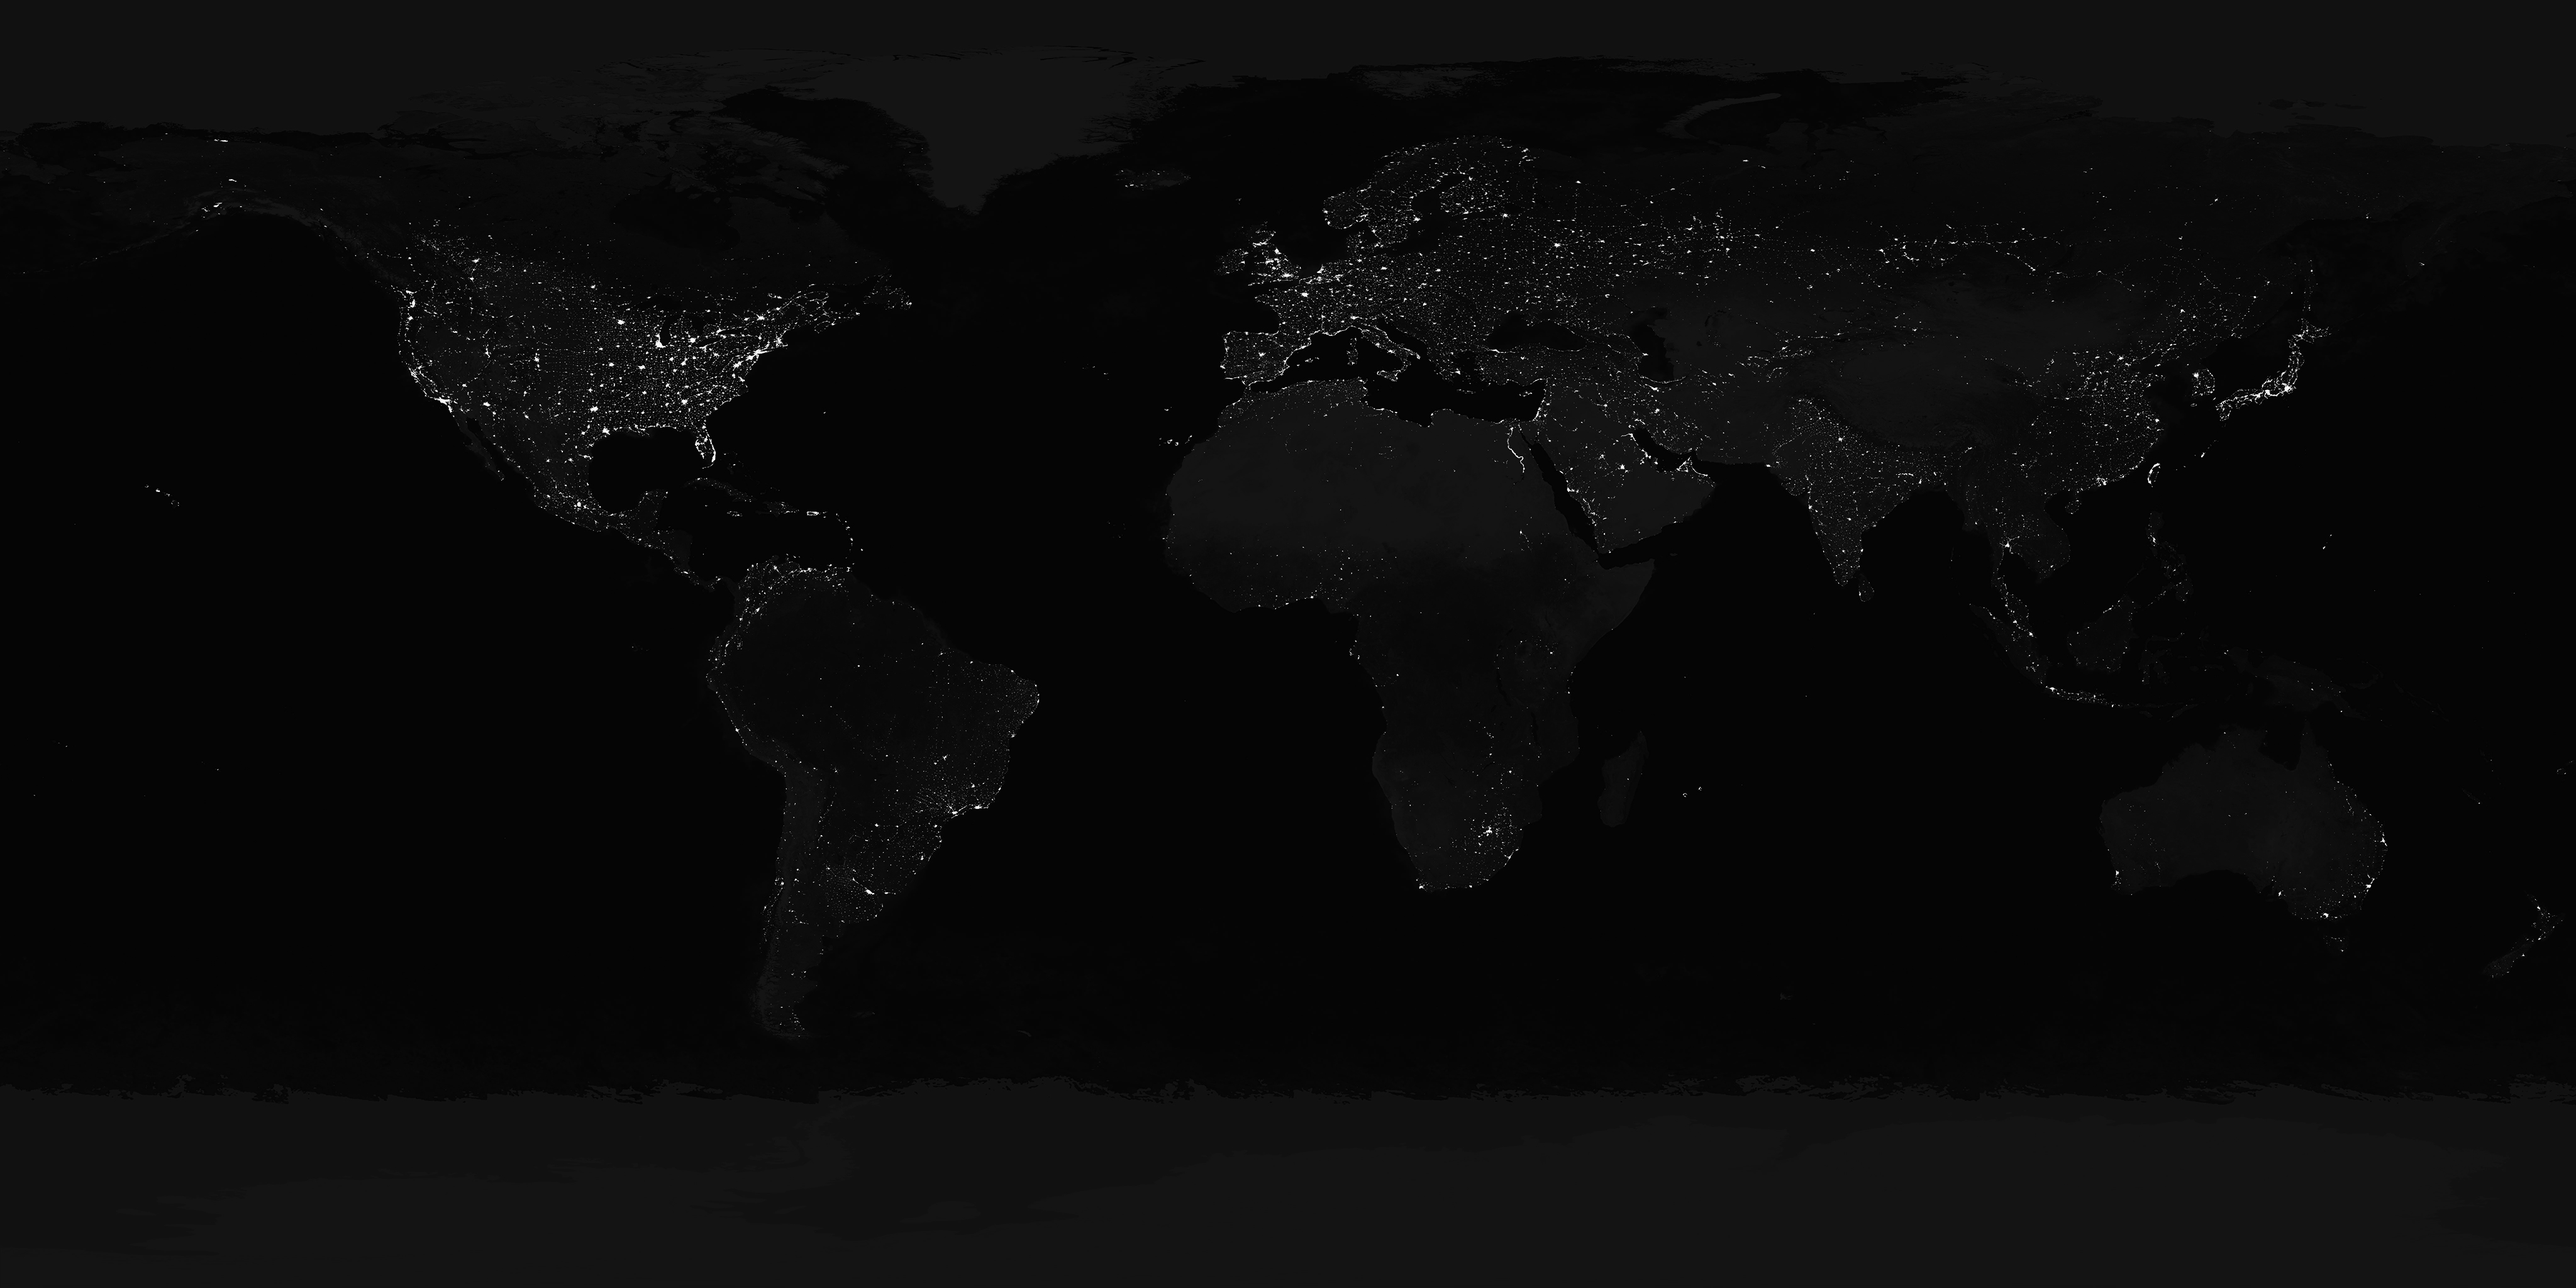
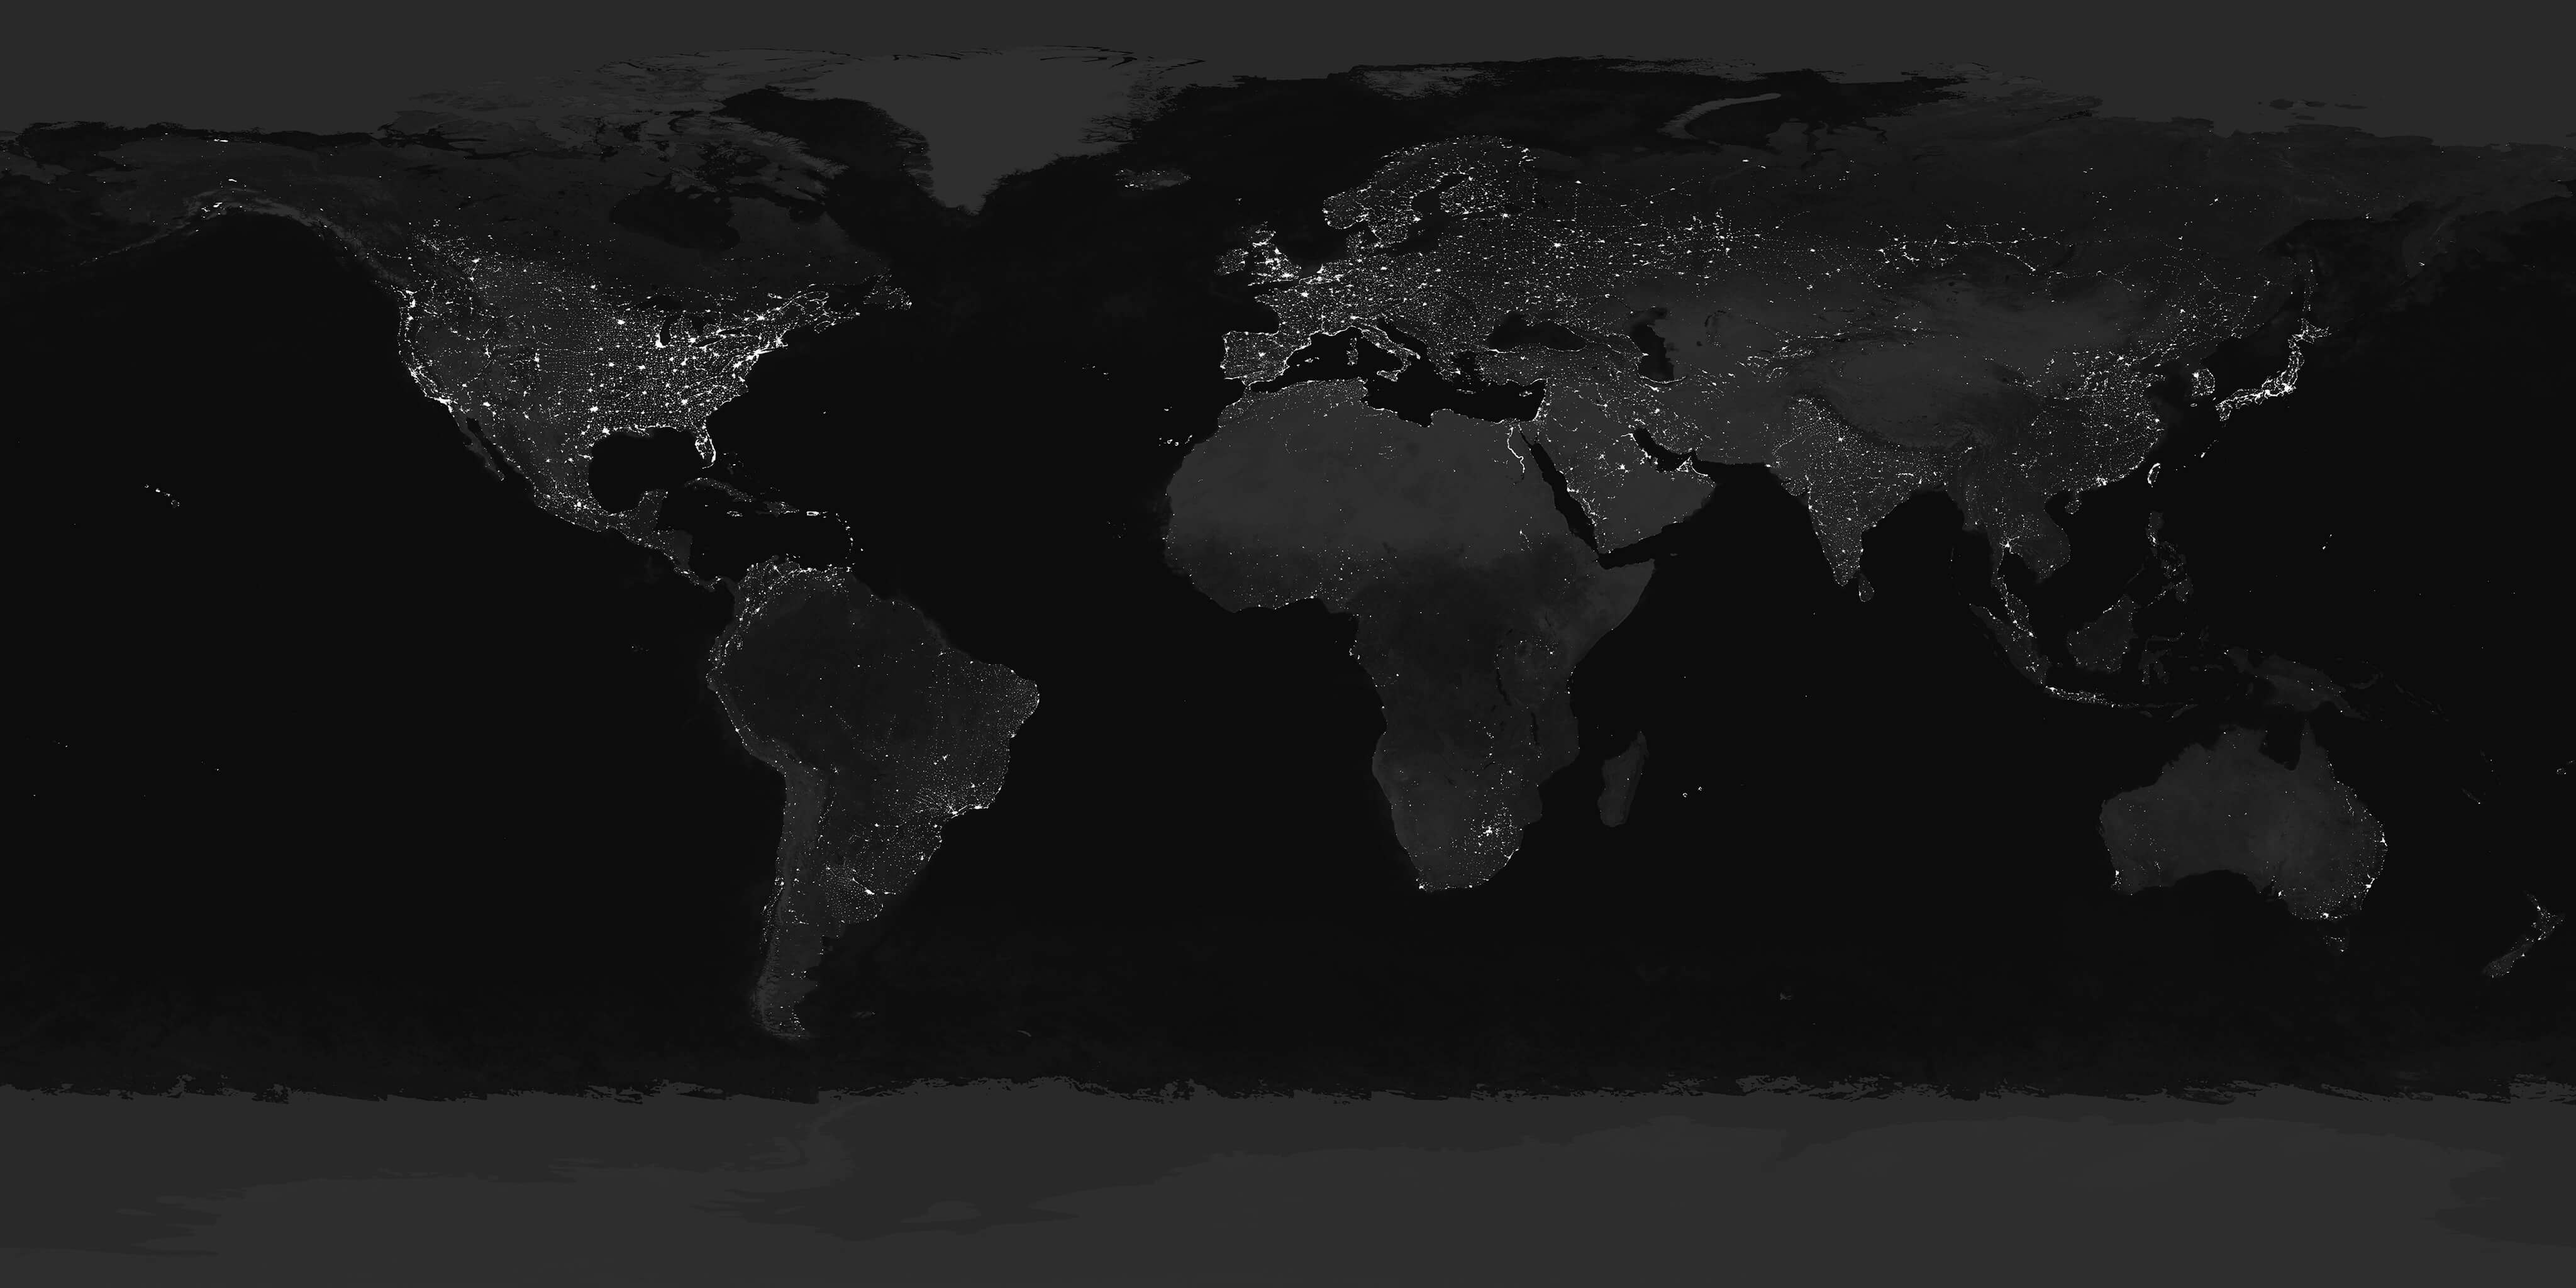
everything is phong

diff --git a/source/js/three/MarkerAnimationSystem.js b/source/js/three/MarkerAnimationSystem.js
@@ -11,7 +11,7 @@ function MarkerAnimationSystem(prefabGeometry, endPositions) {
 
   var minDelay = 0, maxDelay = 4;
   var minDuration = 2, maxDuration = 4;
-  var stretch = 0.1;
+  var stretch = 0.25;
 
   this.animationDuration = maxDelay + maxDuration + stretch;
   this._animationProgress = 0;
@@ -41,25 +41,26 @@ function MarkerAnimationSystem(prefabGeometry, endPositions) {
 
     endPosition = endPositions[i];
 
-    controlPosition0.copy(endPosition).multiplyScalar(6.0);
+    var scale = THREE.Math.randFloat(6.0, 8.0);
+
+    startPosition.copy(endPosition).multiplyScalar(scale);
+    startPosition.y = THREE.Math.randFloatSpread(24.0);
+
+    controlPosition0.copy(endPosition).multiplyScalar(scale * 0.5);
 
     var angleXZ = Math.atan2(controlPosition0.z, controlPosition0.x);
     var length = controlPosition0.length();
 
     angleXZ -= Math.PI * 0.5;
+
     var x = Math.cos(angleXZ);
     var z = Math.sin(angleXZ);
 
-    controlPosition0.x = x * length * 0.5 + THREE.Math.randFloatSpread(4.0);
-    //controlPosition0.y = THREE.Math.randFloatSpread(24.0);
-    controlPosition0.z = z * length * 0.5 + THREE.Math.randFloatSpread(4.0);
+    controlPosition0.x = x * length * 0.5 + THREE.Math.randFloatSpread(8.0);
+    controlPosition0.z = z * length * 0.5 + THREE.Math.randFloatSpread(8.0);
 
-    controlPosition1.x = x * length * 0.5 + THREE.Math.randFloatSpread(4.0);
-    //controlPosition1.y = THREE.Math.randFloatSpread(24.0);
-    controlPosition1.z = z * length * 0.5 + THREE.Math.randFloatSpread(4.0);
-
-    startPosition.copy(endPosition).multiplyScalar(12.0);
-    startPosition.y = THREE.Math.randFloatSpread(12.0);
+    controlPosition1.x = x * length * 0.5 + THREE.Math.randFloatSpread(8.0);
+    controlPosition1.z = z * length * 0.5 + THREE.Math.randFloatSpread(8.0);
 
     for (j = 0; j < prefabVertexCount; j++) {
       aStartPosition.array[offset  ] = startPosition.x;
@@ -82,7 +83,32 @@ function MarkerAnimationSystem(prefabGeometry, endPositions) {
     }
   }
 
-  var material = new THREE.BAS.BasicAnimationMaterial({
+  // colors
+  var aStartColor = bufferGeometry.createAttribute('aStartColor', 3);
+  var color = bufferGeometry.createAttribute('color', 3); // end color
+
+  var startColor = new THREE.Color();
+  var endColor = new THREE.Color();
+
+  startColor.set(0x000000);
+  endColor.set(0xd50c05);
+
+  for (i = 0, offset = 0; i < prefabCount; i++) {
+
+    for (j = 0; j < prefabVertexCount; j++) {
+      aStartColor.array[offset  ] = startColor.r;
+      aStartColor.array[offset+1] = startColor.g;
+      aStartColor.array[offset+2] = startColor.b;
+
+      color.array[offset  ] = endColor.r;
+      color.array[offset+1] = endColor.g;
+      color.array[offset+2] = endColor.b;
+
+      offset += 3;
+    }
+  }
+
+  var material = new THREE.BAS.PhongAnimationMaterial({
     shading: THREE.FlatShading,
     vertexColors: THREE.VertexColors,
     uniforms: {
@@ -98,7 +124,10 @@ function MarkerAnimationSystem(prefabGeometry, endPositions) {
       'attribute vec3 aStartPosition;',
       'attribute vec3 aControl0;',
       'attribute vec3 aControl1;',
-      'attribute vec3 aEndPosition;'
+      'attribute vec3 aEndPosition;',
+
+      'attribute vec3 aStartColor;'
+      // color (endColor) defined is by THREE
     ],
     shaderVertexInit: [
       'float tDelay = aAnimation.x;',
@@ -108,12 +137,19 @@ function MarkerAnimationSystem(prefabGeometry, endPositions) {
       //'float tProgress = tTime / tDuration;'
     ],
     shaderTransformPosition: [
+      //'float scl = 1.0 + (1.0 - tProgress) * 2.0;',
+      //'transformed *= scl;',
+
       'transformed += cubicBezier(aStartPosition, aControl0, aControl1, aEndPosition, tProgress);',
-      'vColor *= (tProgress + 0.5);'
+
+      'float clr = min(1.0, tProgress + 0.75);',
+      'vColor.xyz = mix(aStartColor.rgb, color.rgb, clr);'
     ]
   },
   {
-    diffuse: 0xd50c05
+    shininess:400,
+    specular:0x580806
+    //diffuse: 0xd50c05
   });
 
   THREE.Mesh.call(this, bufferGeometry, material);

diff --git a/source/js/main.js b/source/js/main.js
@@ -12,6 +12,8 @@ var Globe = function() {
   this.root.renderer.setClearColor(0x0f0f0f);
   this.root.renderer.setPixelRatio(window.devicePixelRatio || 1);
 
+  //this.root.camera.position.z = 100;
+
   this.root.controls.enableKeys = false;
   this.root.controls.enableZoom = false;
   this.root.controls.enableDamping = true;
@@ -19,6 +21,10 @@ var Globe = function() {
   this.root.controls.autoRotateSpeed = -0.125;
   this.root.controls.dampingFactor = 0.20;
   this.root.controls.rotateSpeed = 0.5;
+
+  var light = new THREE.DirectionalLight(0xffffff, 1.0);
+  this.root.scene.add(this.root.camera);
+  this.root.camera.add(light);
 
   TweenMax.set(this.root.renderer.domElement, {opacity:0});
 
@@ -46,7 +52,7 @@ Globe.prototype = {
     ctx.drawImage(img, 0, 0, cnv.width, cnv.height);
 
     var data = ctx.getImageData(0, 0, cnv.width, cnv.height).data;
-    var threshold = 127;
+    var threshold = 167;
 
     var positions = [];
 
@@ -74,8 +80,12 @@ Globe.prototype = {
 
   initEarth:function(texture) {
     var geo = new THREE.SphereGeometry(config.earthRadius, 32, 32);
-    var mat = new THREE.MeshBasicMaterial({
-      map: texture
+    var mat = new THREE.MeshPhongMaterial({
+      map: texture,
+      specularMap: THREE.ImageUtils.loadTexture('res/tex/earth_spec.jpg'),
+      bumpMap: THREE.ImageUtils.loadTexture('res/tex/earth_bump.jpg'),
+      bumpScale: 0.25,
+      shininess:4
     });
     var mesh = new THREE.Mesh(geo, mat);
     this.root.scene.add(mesh);
@@ -90,16 +100,10 @@ Globe.prototype = {
     });
 
     this.root.scene.add(starSystem);
-
-    var light = new THREE.PointLight();
-
-    this.root.scene.add(light);
   },
 
   createIntroAnimation:function() {
     var duration = 8;
-    var markerAnimation = this.createMarkersAnimation(duration);
-    var cameraAnimation = this.createCameraAnimation(duration);
     var controls = this.root.controls;
 
     var tl = new TimelineMax({repeat:0});
@@ -108,15 +112,15 @@ Globe.prototype = {
       controls.enabled = false;
     });
     tl.to(this.root.renderer.domElement, 2, {opacity:1});
-    tl.add(markerAnimation, 0);
-    tl.add(cameraAnimation, 0);
+    tl.add(this.createMarkersAnimation(duration), 0);
+    tl.add(this.createCameraAnimation(duration), 0);
     tl.call(function() {
       controls.enabled = true;
     });
   },
 
   createMarkersAnimation:function(duration) {
-    var prefabGeometry = new THREE.SphereGeometry(0.0375, 4, 4);
+    var prefabGeometry = new THREE.SphereGeometry(0.0375, 12, 12);
     var markerSystem = new MarkerAnimationSystem(prefabGeometry, this.markerPositions);
     var animation = TweenMax.fromTo(markerSystem, duration,
       {animationProgress:0},
@@ -148,7 +152,7 @@ Globe.prototype = {
       }
     });
 
-    tl.to(proxy, duration, {angle:Math.PI * -1.5, distance:30, height:0, ease:Power1.easeInOut});
+    tl.to(proxy, duration, {angle:Math.PI * -1.5, distance:24, height:0, ease:Power1.easeInOut});
 
     return tl;
   }
